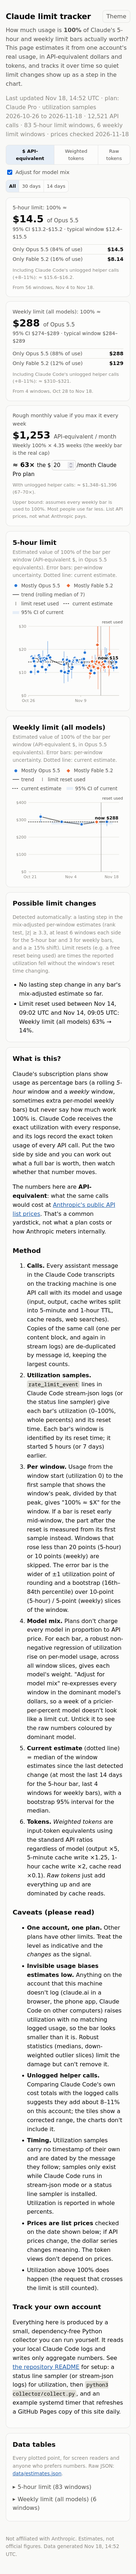
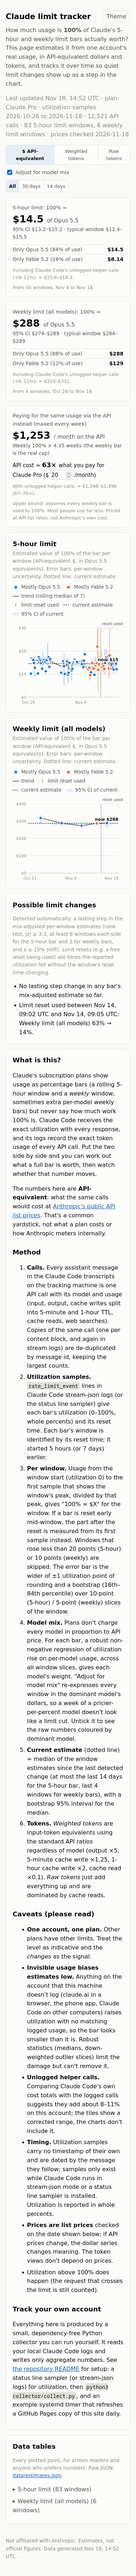
Value card: clearer wording (API cost vs what you pay for the plan)

Changed region(s): [[0.0873, 0.3434, 0.873, 0.9366], [0.0873, 0.1561, 0.873, 0.3122]]

diff --git a/docs/app.js b/docs/app.js
@@ -160,23 +160,25 @@
     var fromFive = fh ? fh[kind()][u].median * (24 / 5) * DAYS_PER_MONTH : Infinity;  // 5h bar maxed around the clock
     var month = Math.min(fromWeek, fromFive);
     var t = el("article", { "class": "tile" });
-    t.appendChild(el("div", { "class": "label" }, "Rough monthly value if you max it every week"));
+    t.appendChild(el("div", { "class": "label" }, "Paying for the same usage via the API instead (maxed every week)"));
     var v = el("div", { "class": "value" }, fmt(month, u) + " ");
-    v.appendChild(el("small", null, u === "usd" ? "API-equivalent / month" : (u === "wtok" ? "weighted tokens / month" : "raw tokens / month")));
+    v.appendChild(el("small", null, u === "usd" ? "/ month on the API" : (u === "wtok" ? "weighted tokens / month" : "raw tokens / month")));
     t.appendChild(v);
     t.appendChild(el("div", { "class": "range" }, fromWeek <= fromFive ? "Weekly 100% × " + (DAYS_PER_MONTH / 7).toFixed(2) + " weeks (the weekly bar is the real cap)"
       : "5-hour 100% × " + (24 / 5 * DAYS_PER_MONTH).toFixed(0) + " windows"));
     if (u === "usd") {
       var price = state.price || DATA.plan_price || 20;
       var row = el("div", { "class": "mult" });
-      row.appendChild(el("b", null, "≈ " + (month / price).toFixed(month / price >= 10 ? 0 : 1) + "× "));
-      row.appendChild(document.createTextNode("the "));
+      row.appendChild(document.createTextNode("API cost ≈ "));
+      row.appendChild(el("b", null, (month / price).toFixed(month / price >= 10 ? 0 : 1) + "× "));
+      row.appendChild(document.createTextNode("what you pay for "));
       var inp = el("input", { type: "number", min: "1", step: "1", value: String(price), "aria-label": "Plan price per month in USD" });
       inp.addEventListener("change", function () { var n = parseFloat(inp.value); if (n > 0) { state.price = n; renderTiles(); } });
       row.appendChild(document.createTextNode("$"));
       row.appendChild(inp);
-      var planName = DATA.plan && price === (DATA.plan_price || 20) ? " " + DATA.plan : "";
-      row.appendChild(document.createTextNode("/month" + planName + " plan"));
+      var planName = DATA.plan && price === (DATA.plan_price || 20) ? DATA.plan : "the plan";
+      row.insertBefore(document.createTextNode(planName + " ("), inp.previousSibling || inp);
+      row.appendChild(document.createTextNode("/month)"));
       t.appendChild(row);
       if (oh) t.appendChild(el("div", { "class": "note" }, "With unlogged helper calls: ≈ " + fmt(month * oh.lo, "usd") + "–" + fmt(month * oh.hi, "usd") +
         " (" + (month * oh.lo / price).toFixed(0) + "–" + (month * oh.hi / price).toFixed(0) + "×)."));
